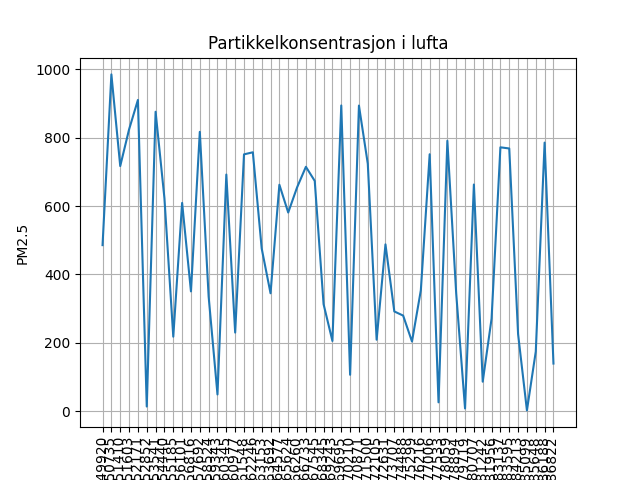
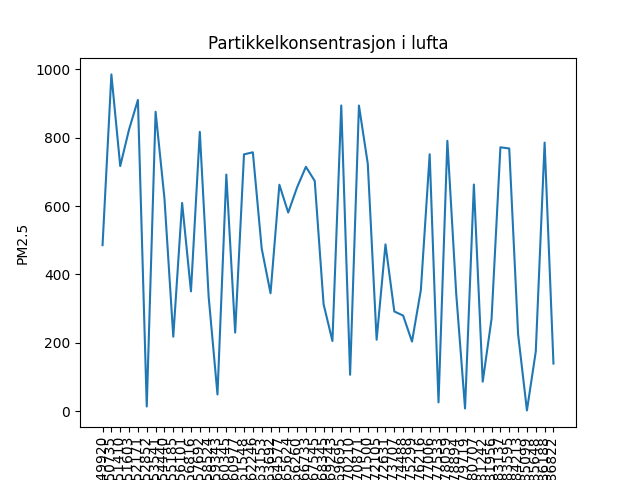
Visualisering av data - update

Changed region(s): [[0.1562, 0.125, 0.875, 0.875]]

diff --git a/grunnleggande/07-visualisering.py b/grunnleggande/07-visualisering.py
@@ -1,12 +1,14 @@
 # Importerer pandas for å jobbe med CSV-fila og matplotlib for å teikne grafar
-import pandas as pd
-import matplotlib.pyplot as plt
+import pandas as pd # Installer pandas ved å bruke kommandoen "pip install pandas" i terminalen
+import matplotlib.pyplot as plt # Installer matplotlib ved å bruke kommandoen "pip install matplotlib" i terminalen
 
 # Les inn data
-data = pd.read_csv('07-visualisering-data.csv', sep=',', header=0)
+data = pd.read_csv('07-visualisering-data.csv', sep=',', header=0) # header=0 betyr at første rad er kolonnenamn
+
+print(data.describe()) # Skriv ut statistikk om data
 
 # Lagre data i variablar vha pandas
-tid = data['tidspunkt']
+tid = data['tidspunkt'] 
 temperatur = data['temperatur']
 luftfuktighet = data['luftfuktighet']
 lufttrykk = data['lufttrykk']
@@ -17,8 +19,6 @@ plt.plot(tid, partikkelkonsentrasjon)
 plt.xlabel('Tid')
 plt.ylabel('PM2.5')
 plt.title('Partikkelkonsentrasjon i lufta')
-# rotate labels on the x-axis
-plt.xticks(rotation=90)
-# save figure as png
-plt.savefig('07-visualisering-plot.png')
+plt.xticks(rotation=90) # rotate labels on the x-axis
+plt.savefig('07-visualisering-plot.png') # save figure as png
 plt.show()
